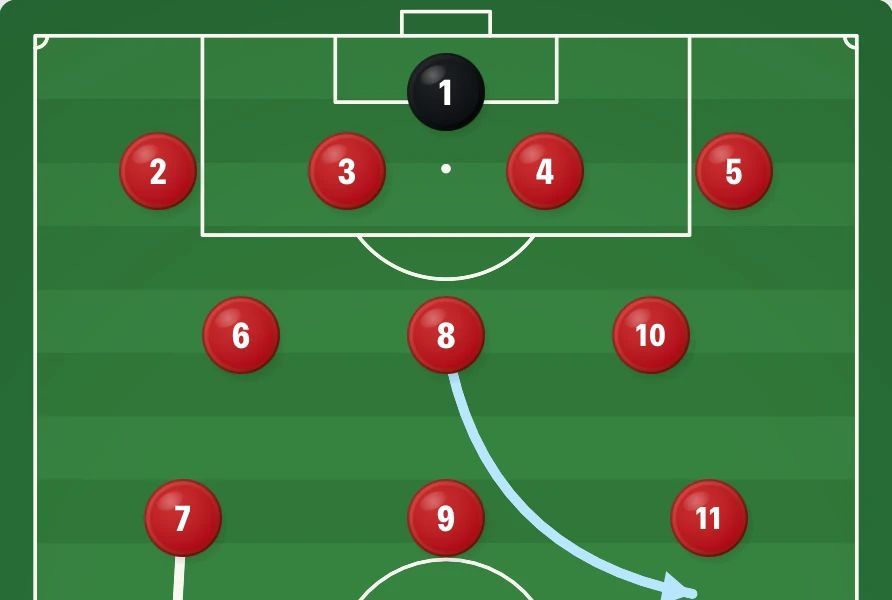
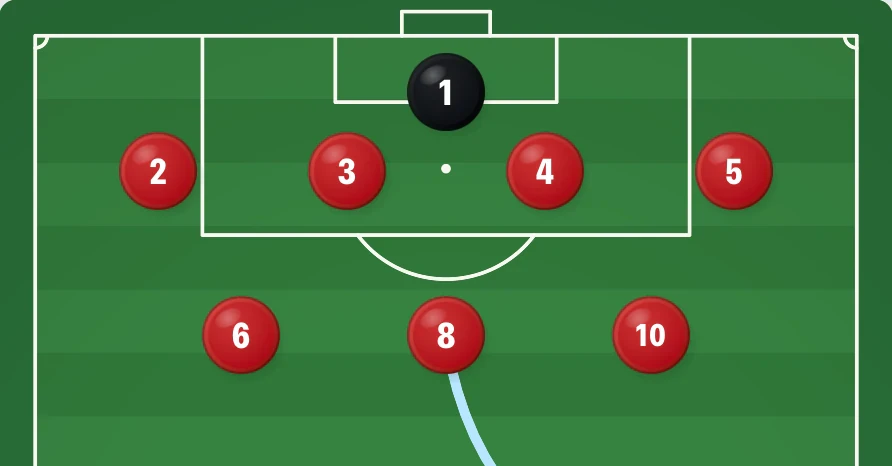
fix(home): the pitch owns the hero; drop captures with the seeded circle and crop out UI that changed after them

Changed region(s): [[0.0303, 0.0, 0.9686, 1.0], [0.6054, 0.8712, 0.787, 1.0], [0.9989, 0.0, 1.0, 0.03]]

diff --git a/components/home/Hero.tsx b/components/home/Hero.tsx
@@ -4,6 +4,8 @@ import { AppStoreBadge } from "../AppStoreBadge";
 import { Disclosure } from "../Bits";
 import { ThemedPicture } from "../ThemedPicture";
 
+// The pitch owns the hero. On wide screens it sits beside the copy; below 900 px it comes right
+// after the lead, so the first screen shows the board before the download button.
 export function Hero({ locale }: { locale: Locale }) {
   const d = t(locale).hero;
   const shot = resolveSlot("hero", locale);
@@ -11,12 +13,8 @@ export function Hero({ locale }: { locale: Locale }) {
 
   return (
     <section id="top" aria-labelledby="hero-title" className="floodlit">
-      <div
-        className={`container-x grid items-center gap-12 pb-16 pt-10 md:pb-24 md:pt-16 ${
-          shot ? "min-[900px]:grid-cols-[minmax(0,1fr)_auto] min-[900px]:gap-16" : ""
-        }`}
-      >
-        <div className="max-w-[40rem]">
+      <div className={`container-x pb-16 pt-10 md:pb-24 md:pt-16 ${shot ? "hero-grid" : ""}`}>
+        <div className="hero-top max-w-[40rem]">
           <p className="rise">
             <span className="t-chip-plain">{d.badge}</span>
           </p>
@@ -24,6 +22,30 @@ export function Hero({ locale }: { locale: Locale }) {
             {d.title}
           </h1>
           <p className="t-lead rise rise-2 mt-5 max-w-[34rem]">{d.lead}</p>
+        </div>
+
+        {shot ? (
+          <div className="hero-visual rise rise-2 mt-8 min-[900px]:mt-0">
+            <ThemedPicture
+              light={shot.light}
+              dark={shot.dark}
+              alt={shot.alt}
+              priority
+              sizes={
+                landscape
+                  ? "(min-width: 1218px) 560px, (min-width: 900px) 46vw, (min-width: 652px) 600px, 92vw"
+                  : "(min-width: 900px) 400px, 76vw"
+              }
+              className={
+                landscape
+                  ? "capture h-auto w-full max-w-[600px] rounded-[12px] min-[900px]:w-[min(46vw,560px)]"
+                  : "capture mx-auto h-auto w-[min(76vw,340px)] rounded-[14px] min-[900px]:w-[400px]"
+              }
+            />
+          </div>
+        ) : null}
+
+        <div className="hero-bottom max-w-[40rem]">
           <div className="rise rise-3 mt-8 flex flex-wrap items-center gap-x-7 gap-y-4">
             <AppStoreBadge locale={locale} height={52} />
             <a href="#whats-new" className="t-link inline-flex min-h-11 items-center text-[1.0625rem] font-semibold">
@@ -35,23 +57,6 @@ export function Hero({ locale }: { locale: Locale }) {
             <Disclosure locale={locale} />
           </div>
         </div>
-
-        {shot ? (
-          <div className="rise rise-2 justify-self-center">
-            <ThemedPicture
-              light={shot.light}
-              dark={shot.dark}
-              alt={shot.alt}
-              priority
-              sizes={landscape ? "(min-width: 900px) 600px, 92vw" : "(min-width: 1200px) 420px, (min-width: 900px) 380px, 76vw"}
-              className={
-                landscape
-                  ? "capture h-auto w-[min(92vw,600px)] rounded-[22px]"
-                  : "capture h-auto w-[min(76vw,340px)] rounded-[26px] min-[900px]:w-[380px] xl:w-[420px]"
-              }
-            />
-          </div>
-        ) : null}
       </div>
     </section>
   );

diff --git a/content/screens.ts b/content/screens.ts
@@ -15,6 +15,14 @@ type Subject = {
 };
 
 export const SUBJECTS = {
+  /** The pitch alone, cropped from a board capture: no interface text, used on both languages. */
+  pitch: {
+    names: ["hero-pitch", "pitch"],
+    alt: {
+      en: "A section of the board seen from above: three player tokens with volume, light and shadow, two runs drawn as arrows, and the centre circle.",
+      es: "Una parte de la pizarra vista desde arriba: tres fichas de jugador con volumen, luz y sombra, dos carreras dibujadas con flechas y el círculo central.",
+    },
+  },
   duoOpenDesk: {
     names: ["duo-open-coach-desk", "duo-open-desk"],
     alt: {
@@ -39,8 +47,8 @@ export const SUBJECTS = {
   coachBuild: {
     names: ["iphone-ai-lineup", "iphone-coach-build"],
     alt: {
-      en: "The coach’s suggested lineup: a 5-3-2 with a mini board, the explanation written by the on-device AI, and facts such as team width and the matchups between lines.",
-      es: "La alineación sugerida por el entrenador: un 5-3-2 con una minipizarra, la explicación que escribe la IA en el dispositivo y datos como el ancho del equipo y los duelos entre líneas.",
+      en: "The coach’s suggested lineup: a 5-3-2 with a mini board of the formation, 3 players on the bench, and the explanation written by the on-device AI.",
+      es: "La alineación sugerida por el entrenador: un 5-3-2 con una minipizarra de la formación, 3 jugadores en la banca y la explicación que escribe la IA en el dispositivo.",
     },
   },
   coachAnalyze: {
@@ -64,12 +72,12 @@ export const SUBJECTS = {
       es: "La pizarra con efecto 3D en iPhone: fichas de jugador con volumen, luz y sombra sobre una cancha con profundidad.",
     },
   },
-  /** Crop of duo-closed-board-es (one half of the pitch). */
+  /** Crop of an outer-display board capture: one team's goal end. */
   boardCloseup: {
     names: ["board-closeup"],
     alt: {
-      en: "Close-up of the board: one team’s player tokens with volume, light and shadow, and a run drawn as a curved arrow.",
-      es: "Acercamiento a la pizarra: las fichas de un equipo con volumen, luz y sombra, y una carrera dibujada con una flecha curva.",
+      en: "Close-up of the board: eight player tokens of one team with volume, light and shadow, and the start of a run drawn as a curved arrow.",
+      es: "Acercamiento a la pizarra: ocho fichas de un mismo equipo con volumen, luz y sombra, y el inicio de una carrera dibujada con una flecha curva.",
     },
   },
   format11: {
@@ -90,8 +98,8 @@ export type SubjectId = keyof typeof SUBJECTS;
 
 /** Which subjects each page slot tries, in order. */
 export const SLOTS = {
-  // Until the open-desk capture exists, the hero shows the real outer-display capture.
-  hero: ["duoOpenDesk", "duoClosedBoard"],
+  // The pitch owns the hero. Full interface captures belong to their own sections.
+  hero: ["pitch"],
   coachBuild: ["coachBuild"],
   coachAnalyze: ["coachAnalyze"],
   coachInsight: ["coachInsight"],

diff --git a/components/home/Duo.tsx b/components/home/Duo.tsx
@@ -5,21 +5,14 @@ import { ThemedPicture } from "../ThemedPicture";
 
 type Figure = { key: string; shot: ResolvedScreen; caption: string };
 
-/**
- * Real iPhone Duo captures for this section. A capture already used as the hero fallback is
- * not repeated here (the open desk is the one shared on purpose, as in the brief).
- */
+/** Real iPhone Duo captures for this section (the hero shows the pitch only, never these). */
 export function duoFigures(locale: Locale): Figure[] {
   const d = t(locale).duo;
-  const heroSubject = resolveSlot("hero", locale)?.subject;
   return [
     { key: "closed", shot: resolveSlot("duoClosed", locale), caption: d.captionClosed },
     { key: "open", shot: resolveSlot("duoOpen", locale), caption: d.captionOpen },
     { key: "half", shot: resolveSlot("duoHalf", locale), caption: d.captionHalf },
-  ].filter(
-    (figure): figure is Figure =>
-      figure.shot !== null && (figure.shot.subject === "duoOpenDesk" || figure.shot.subject !== heroSubject),
-  );
+  ].filter((figure): figure is Figure => figure.shot !== null);
 }
 
 function DuoFigure({ figure, sizes, width }: { figure: Figure; sizes: string; width: string }) {

diff --git a/app/globals.css b/app/globals.css
@@ -300,6 +300,34 @@
     );
   }
 
+  /* Hero: copy and pitch side by side from 900 px. Below that the DOM order applies:
+     badge, title, lead, pitch, download, notes. */
+  @media (min-width: 900px) {
+    .hero-grid {
+      display: grid;
+      grid-template-columns: minmax(0, 1fr) auto;
+      grid-template-rows: auto 1fr;
+      grid-template-areas:
+        "top visual"
+        "bottom visual";
+      column-gap: 4rem;
+      align-items: start;
+    }
+
+    .hero-top {
+      grid-area: top;
+    }
+
+    .hero-visual {
+      grid-area: visual;
+      align-self: center;
+    }
+
+    .hero-bottom {
+      grid-area: bottom;
+    }
+  }
+
   /* Only glass on the page: the sticky navigation bar. */
   .navbar-glass {
     background-color: oklch(var(--canvas) / 0.82);

diff --git a/docs/screens.md b/docs/screens.md
@@ -1,55 +1,78 @@
 # Captures in public/screens — real app captures only
 
 These notes live outside `public/` so they are never served. The site reads `public/screens` at
-build time (`content/screens.ts`). A slot whose file is missing
-renders **nothing**: no placeholder, no drawn pitch, no mock UI. Drop a real capture in, rebuild,
-and it appears.
+build time (`content/screens.ts`). A slot whose file is missing renders **nothing**: no
+placeholder, no drawn pitch, no mock UI. Drop a real capture in, rebuild, and it appears.
 
 ## Rules
 
-- Real captures of the merged SoccerBoard Tactics AI 2.0 build (the archived commit), seeded from
-  `fixtures/store-1.1.0`, top camera only.
+- Production captures come from the archived SoccerBoard Tactics AI 2.0.0 (8) build, seeded from
+  `fixtures/store-1.1.0` with the current screenshot seed, top camera only, light and dark.
 - Allowed: `simctl status_bar` override, cropping, resizing, format conversion.
 - Not allowed: retouching, compositing, redrawn or edited UI. Coach text exactly as generated,
   captured after streaming ends. A capture that shows "Rule-based" must not illustrate the AI cards.
 - The alt text for each slot lives in `content/screens.ts` and describes what the capture shows.
   If a new capture shows something else, update the alt text in the same commit.
+- Record every file below with its source and sha256.
 
 ## Filenames
 
 `<name>[-en|-es][-light|-dark].<webp|png|jpg|avif>`
 
-- No locale suffix: used on both languages (only for captures with no interface text).
-- No theme suffix: light. A missing dark file falls back to light.
-- Spanish pages fall back to English captures. English pages never show Spanish captures.
-- Capture Spanish separately (`-AppleLanguages "(es-MX)"`); the store lane reuses English images.
+- No locale suffix: used on both languages. Only for captures with no interface text (the pitch).
+- Each language shows only its own captures. A Spanish page never falls back to an English
+  capture: without a `-es` file the slot renders nothing on `/es`.
+- Capture Spanish separately (`-AppleLanguages "(es-MX)"`).
+- No theme suffix: light. A missing dark file falls back to light, so every slot needs a `-dark`
+  file for the night match.
 
 | Expected file (base name) | Accepted alias | Where it shows | Should show |
 |---|---|---|---|
-| `duo-open-coach-desk` | `duo-open-desk` | Hero, iPhone Duo (open) | Inner display flat: board with an applied lineup + coach panel showing that result |
-| `duo-closed-board` | | iPhone Duo (closed); hero until the open desk exists | Outer display, compact board, same lineup |
+| `hero-pitch` | `pitch` | Hero | The pitch alone, cropped from a board capture (no interface). Prefer a full-pitch crop from the inner display (source ≥ 1,100 px wide, shown at 400 × 600 CSS px) |
+| `duo-open-coach-desk` | `duo-open-desk` | iPhone Duo (open) | Inner display flat: board with an applied lineup + coach panel showing that result |
+| `duo-closed-board` | | iPhone Duo (closed) | Outer display, compact board, same lineup, cameras in the tool column |
 | `duo-half-open` | `duo-half-desk` | iPhone Duo (half open) | Half-folded, same session, board and coach panel side by side |
 | `iphone-ai-lineup` | `iphone-coach-build` | AI coach | Plan chips picked + the suggested lineup and explanation (on-device model available) |
 | `iphone-analysis` | `iphone-coach-analyze` | AI coach | Ghosts, arrows, badges 1–3 + adjustment rows, all from the on-device model |
 | `iphone-insight` | `iphone-coach-insight` | AI coach | Insight pill over the board |
 | `iphone-3d-board` | `iphone-board-3d` | 3D board | 11-a-side, tokens with light and shadow |
-| `iphone-format-11` / `-7` / `-futsal` | | Built for every squad | One capture per format |
+| `board-closeup` | | 3D board, until `iphone-3d-board` exists | A close-up crop of the board |
+| `iphone-format-11` / `-7` / `-futsal` | | Built for every squad (tiles appear only when one exists) | One capture per format |
 | `ipad-board` | | not rendered | Accepted but unused: the site makes no iPad claims |
 
-When a capture is used as the hero, the iPhone Duo section does not repeat it (except the open
-desk, which the design shares on purpose).
+## Files in this folder now (pre-release builds, 2026-10-10)
 
-## Files in this folder now (pre-release 2.0 builds, 2026-10-10)
+None of these come from the archived 2.0.0 (8) build yet. Each crop keeps only regions that the
+merged code draws the same way, and leaves out what changed later.
 
-| File | Source | Notes |
-|---|---|---|
-| `duo-closed-board-es.webp` | Outer display capture, 1398 × 2034, Spanish UI, light (16:50 board build; the original PNG was later replaced in `evidence/duo`) | Resized to 1080 px wide. Spanish hero. |
-| `duo-closed-board.webp` | Same capture without its navigation title row (the only interface text), 1080 × 1407 | English hero. |
-| `board-closeup.webp` | Same capture, crop x 217, y 419, 892 × 600 (one half of the pitch) | 3D board, both languages, until `iphone-3d-board` exists. |
-| `iphone-ai-lineup-en.webp` | `evidence/ai/coach-closed-lineup.png` (sha256 4bd2cd39d4fa…), crop x 0, y 70, 1140 × 1964, resized to 900 px | The suggested-lineup card with the on-device explanation. The tab rail and the button edge above the card are outside the crop. |
+| File | Source (sha256 prefix) | Crop | Notes |
+|---|---|---|---|
+| `hero-pitch.webp` | `evidence/board/duo-closed-light.png` (e810b14fb395d5c9), outer display, 1398 × 2034, board-lane build at 17:26 | x 216, y 806, 894 × 410, no resize | Midfield band: tokens 7, 9, 11, two drawn runs, centre circle. Leaves out the floating camera cluster (moved to the tool column in d6b590d) and the red zone (gained a wash in d6b590d). |
+| `hero-pitch-dark.webp` | `evidence/board/duo-closed-dark.png` (fb670f488920a288), same session | same box | Night match. |
+| `board-closeup.webp` | previous `board-closeup.webp` (e157b213b2cfcba7: x 217, y 419, 892 × 600 of the 16:50 outer-display capture) | top 892 × 466 | Goal end: eight tokens and the start of the curved run. The 16:50 seed circle and the later camera cluster are outside it; pixel diff against the 17:26 capture of the same region: mean 1.5/255 outside the cameras. Light only: no dark source without the camera cluster. |
+| `iphone-ai-lineup-en.webp` | `evidence/ai/coach-closed-lineup.png` (4bd2cd39d4fa841f), AI-lane build e44ce48 | x 20, y 92, 1106 × 1044, resized to 900 × 850 | Suggested-lineup card down to the "On-device AI" mark. The fact chips are outside the crop: 0a4049b cut them from 9 to 5. English only. |
 
-Not used, on purpose: the open-display captures from the board build (they still show the 1.x
-coach panel), the full coach frames (they show the old AI tab glyph), the analysis frame (two of
-its three cards are rule-based) and the tilted camera captures (the site does not show that view).
+`assets/og/board-pitch.png` (social cards) is the dark midfield band above (same box, PNG).
 
-Replace everything here with captures from the merged 2.0 build before the site goes to production.
+Removed on purpose: `duo-closed-board.webp` and `duo-closed-board-es.webp` (16:50 seed drew a
+chalk circle under the centre circle, and the build had no camera controls), the open-display
+captures from the board build (1.x coach panel), the full coach frames (old AI tab glyph), the
+analysis frame (two of its three cards are rule-based) and the tilted camera captures (the site
+does not show that view).
+
+## Before production
+
+Replace every file above with captures from the archived 2.0.0 (8) build, in light and dark, and
+add the Spanish captures:
+
+1. `hero-pitch` + `-dark` (pitch only, from the inner display if possible).
+2. `duo-open-coach-desk` + `-dark`, `duo-closed-board` + `-dark` (and `-es` versions if the
+   capture shows interface text).
+3. `iphone-ai-lineup-en` + `-en-dark`, `iphone-ai-lineup-es` + `-es-dark` (real model narration in
+   es-MX, after streaming ends).
+4. `board-closeup` + `-dark`, or `iphone-3d-board` + `-dark`.
+5. Re-crop `assets/og/board-pitch.png` from the new dark capture.
+
+Update the alt texts and this table in the same commit. Deploy to production only after App Store
+Connect shows 2.0.0 Ready for Distribution and `https://itunes.apple.com/lookup?id=6762029244`
+returns version 2.0.0.
